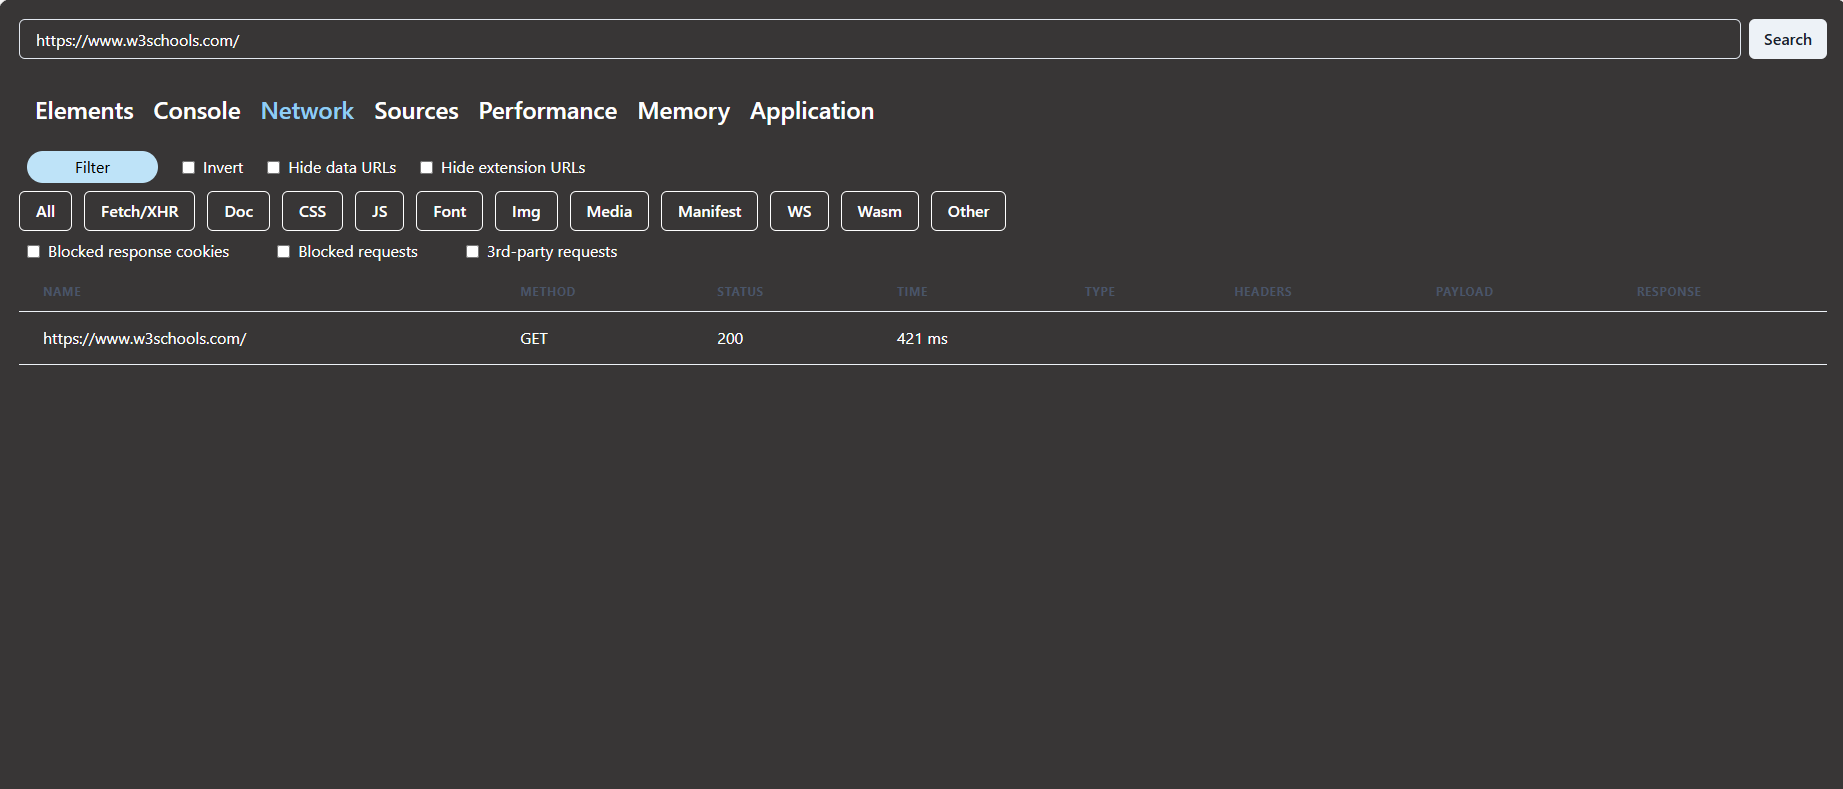
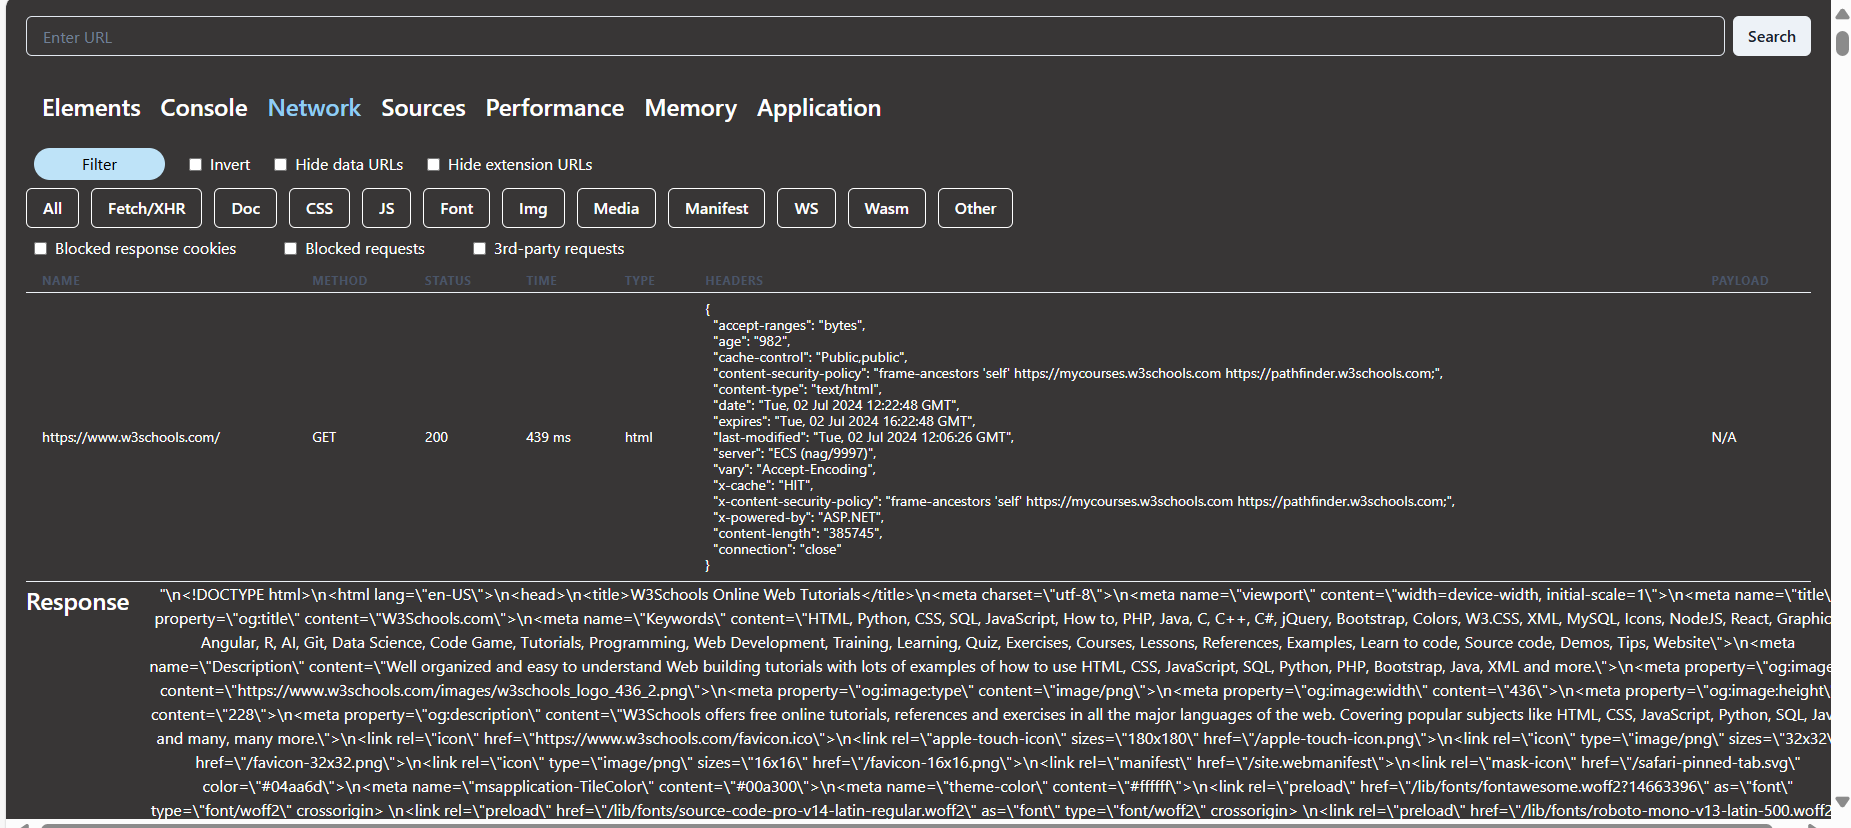
update

diff --git a/src/App.js b/src/App.js
@@ -18,7 +18,8 @@ function App() {
 
 
   return (
-    <Box p={5} className='App'>
+    <Box p={5} className='App' >
+    <Box>
     <SearchBar /> 
     <Flex gap='20px' p={4}>
      <Text fontSize='2xl' fontWeight={600}>Elements</Text>
@@ -33,7 +34,8 @@ function App() {
     {status === 'loading' && <Text>Loading...</Text>}
     {status === 'failed' && <Text>Error: {error}</Text>}
     {status === 'succeeded' && networkData.length > 0 && (
-      <Table variant="simple">
+      <Box>
+      <Table variant="simple" textAlign={'left'} size='sm'>
         <Thead>
           <Tr>
           <Th>Name</Th>
@@ -43,7 +45,7 @@ function App() {
             <Th>Type</Th>
             <Th>Headers</Th>
             <Th>Payload</Th>
-            <Th>Response</Th>
+            {/* <Th>Response</Th> */}
           </Tr>
         </Thead>
         <Tbody>
@@ -60,14 +62,25 @@ function App() {
               <Td>
                 <Text whiteSpace="pre-wrap">{request.payload}</Text>
               </Td>
-              <Td>
+              {/* <Td>
                 <Text whiteSpace="pre-wrap">{JSON.stringify(request.response, null, 2)}</Text>
-              </Td>
+              </Td> */}
             </Tr>
           ))}
         </Tbody>
-      </Table>
+      </Table> 
+      <Flex gap={4}>
+        <Text fontSize={'2xl'} fontWeight={600}>Response</Text>
+        {networkData?.map((request, index) => (
+          <Text fontSize={'l'}>{JSON.stringify(request.response, null, 2)}</Text>
+        ))}
+         
+      </Flex>
+</Box>
+   
+      
     )}
+  </Box>
   </Box>
           
   );

diff --git a/src/App.css b/src/App.css
@@ -2,7 +2,9 @@
   text-align: center;
   background-color: rgb(56, 54, 54);
   color: white;
-  height: 800px;
+  height: 100%;
+  
+  
 }
 
 

diff --git a/README.md b/README.md
@@ -1,7 +1,7 @@
 # Chrome-devtool clone
 This project is a React application that allows users to fetch network request details from a specified URL and filter them based on different types of requests.
 
-<img src='./public/home.png' alt='devtool' width='100%'/>
+<img src='./public/devtool.png' alt='devtool' width='100%'/>
 
 ### Features
 - Search Bar: Enter a URL and fetch network request details.
